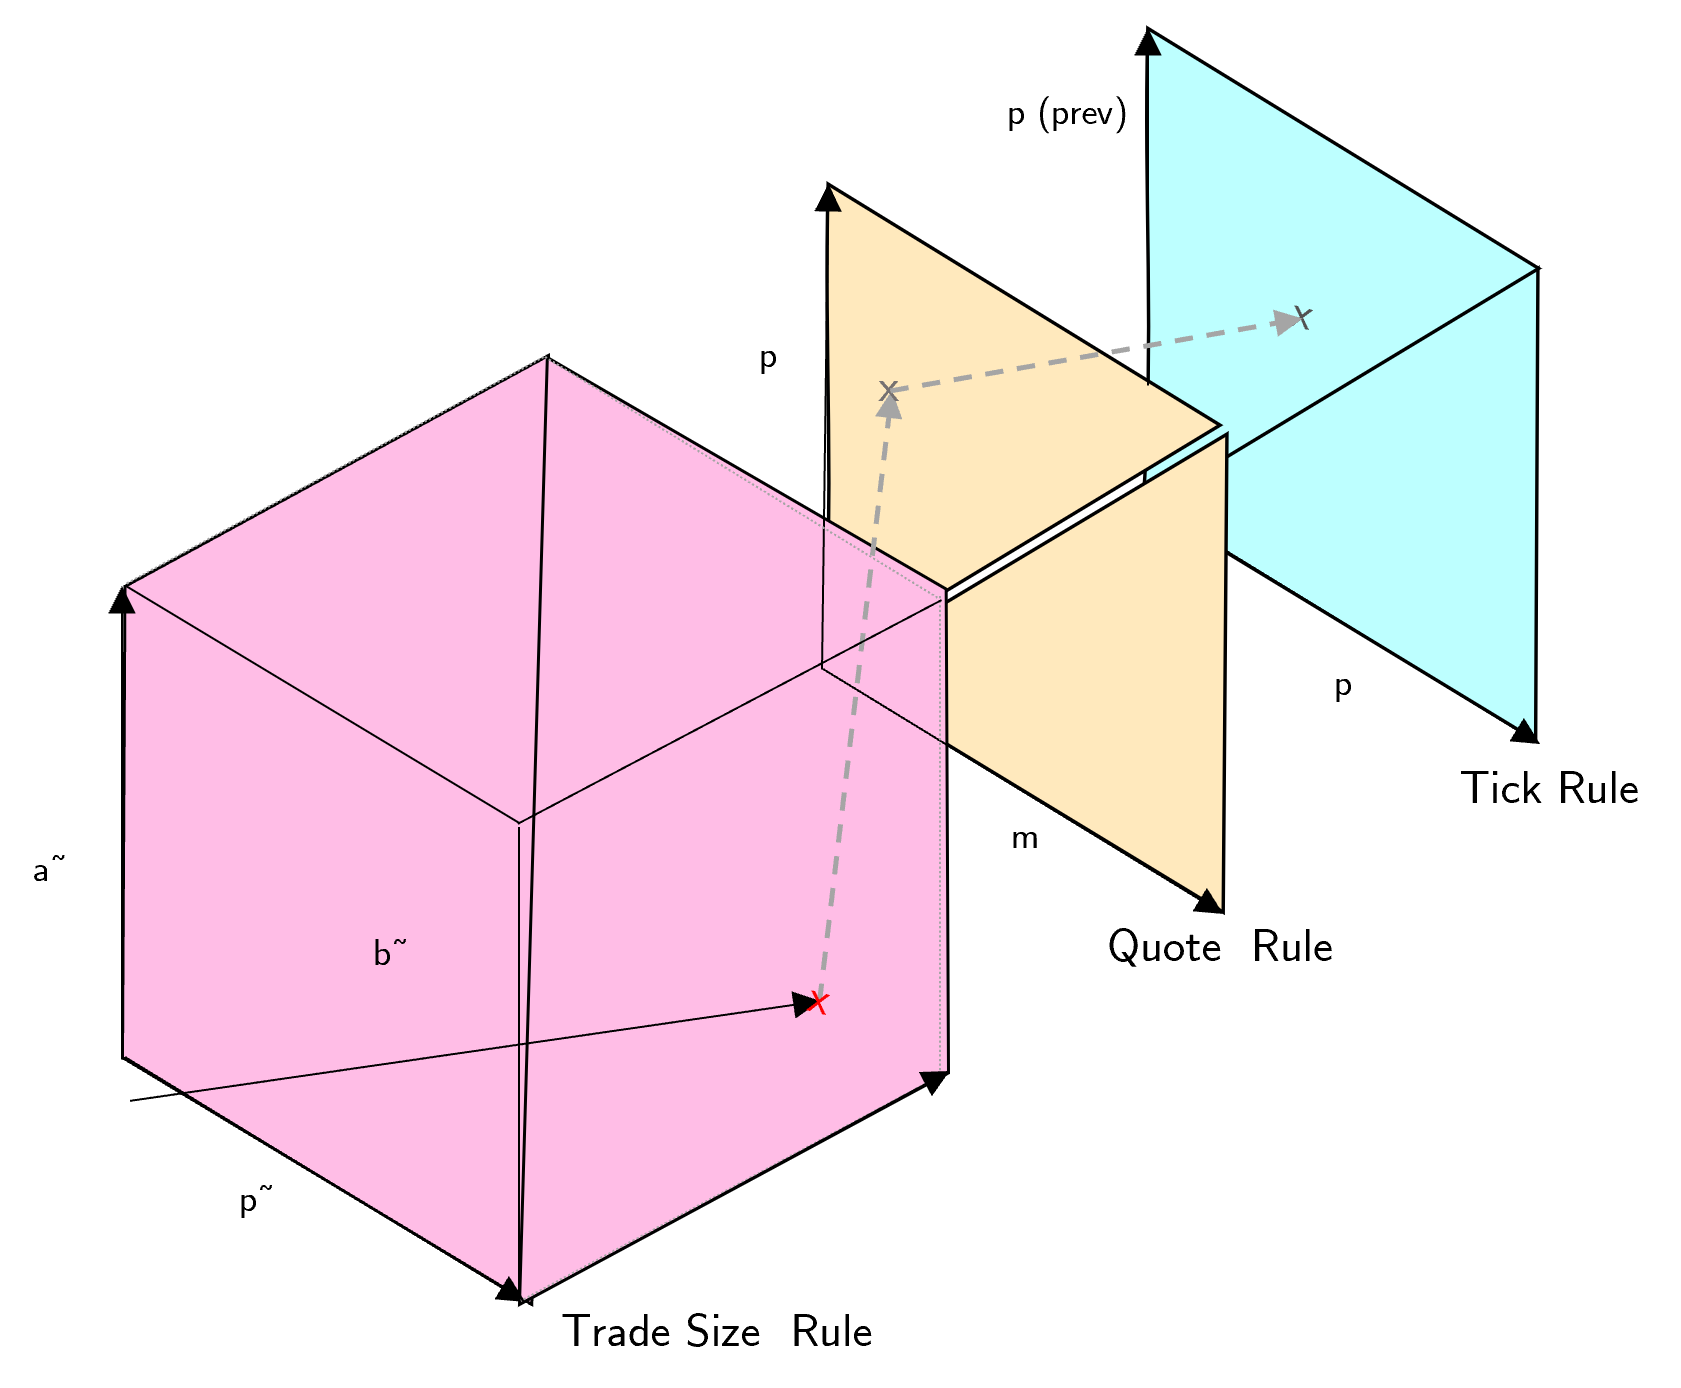
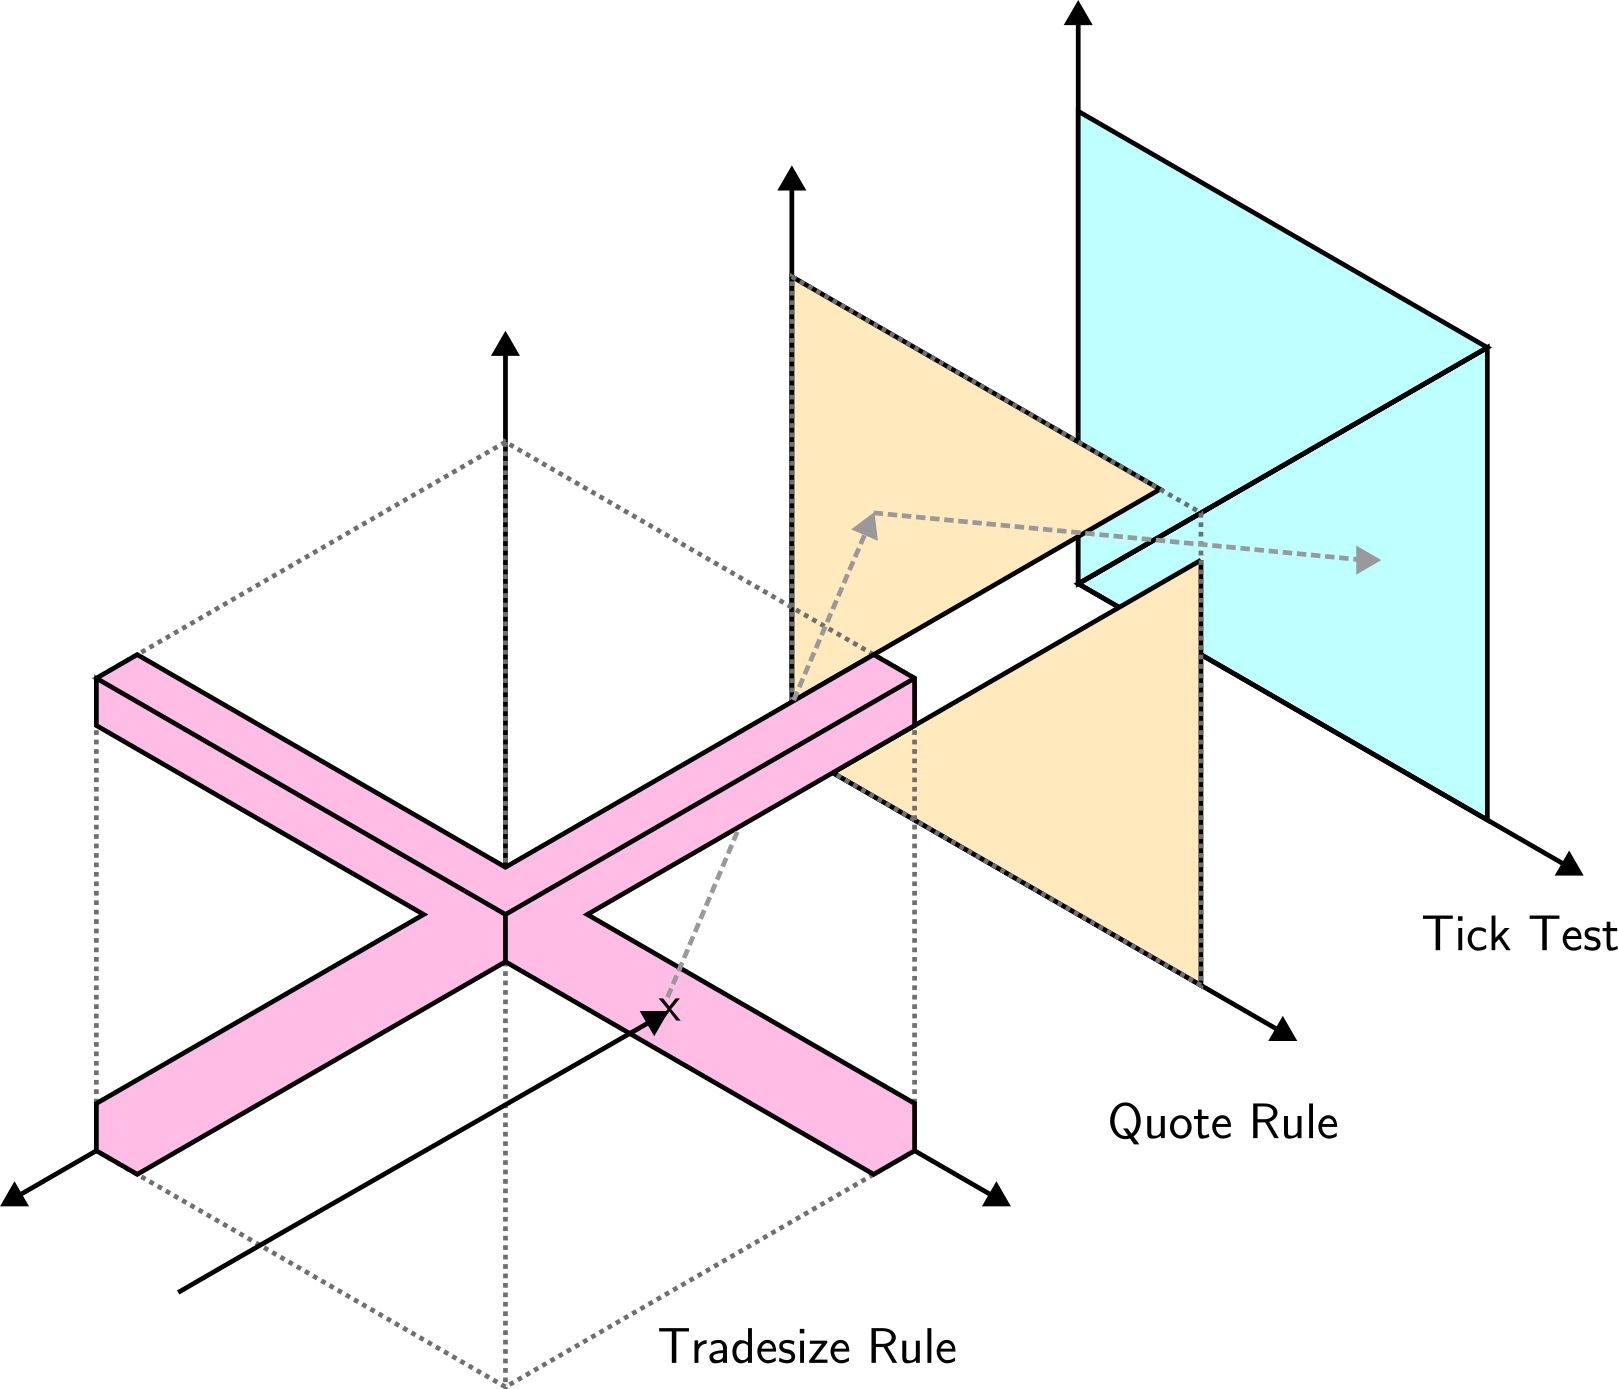
Add visualization of stacked rules 🎨

diff --git a/reports/Content/main.tex b/reports/Content/main.tex
@@ -229,7 +229,15 @@ The algorithm is summarized in \cref{eq:CLNV-rule}. It is derived from a perform
 
 (...)
 
-Like before all rules are applied mutually exclusively. Theoretically, all algorithms can be stacked. As it's no separate algorithm, we don't discuss the concept as a separate rule. Instead we refer to the \textcite[][1--29]{grauerOptionTradeClassification2022} and our discussion on the classification rule's domain for possible arrangments.
+\begin{figure}[ht!]
+\begin{center}
+  \includegraphics[height=60mm]{stacking-algo}
+\end{center}
+\caption[Visualization Of A Stacked Rules]{Visualization of a stacked rule consisting of the trade size (first) and quote rule (second) as well the tick test (third). Coloured areas indicate the domain of the base rules. Despite being classifiable by all rules, as indicated by the arrows inside the domains, only the trade size rule is applied, as it is the first rule to classify the trade entirely. Own drawing.}
+\label{fig:stacking-algo}
+\end{figure}
+
+Like before all rules are applied mutually exclusively. Theoretically, all algorithms can be stacked. As it's no separate algorithm, we don't discuss the concept as a separate rule. Instead we refer to the \textcite[][1--29]{grauerOptionTradeClassification2022} and our discussion on the classification rule's domain for possible arrangements.
 
 \textcite[][3811]{chakrabartyTradeClassificationAlgorithms2007} continue the trend for more complex classification rules, leading to a higher fragmented decision surface, and eventually resulting in improved classification accuracy. Since the condition, for the selection of the base rule, is inferred from \emph{static} cut-off points at the decile boundaries of the spread including the midspread and the quotes. Hence, current classification rules may not realize their full potential. A obvious question is, if classifiers, \emph{learned} on price and quote data, can adapt to the data and thereby improve over classical trade classification rules.
 
